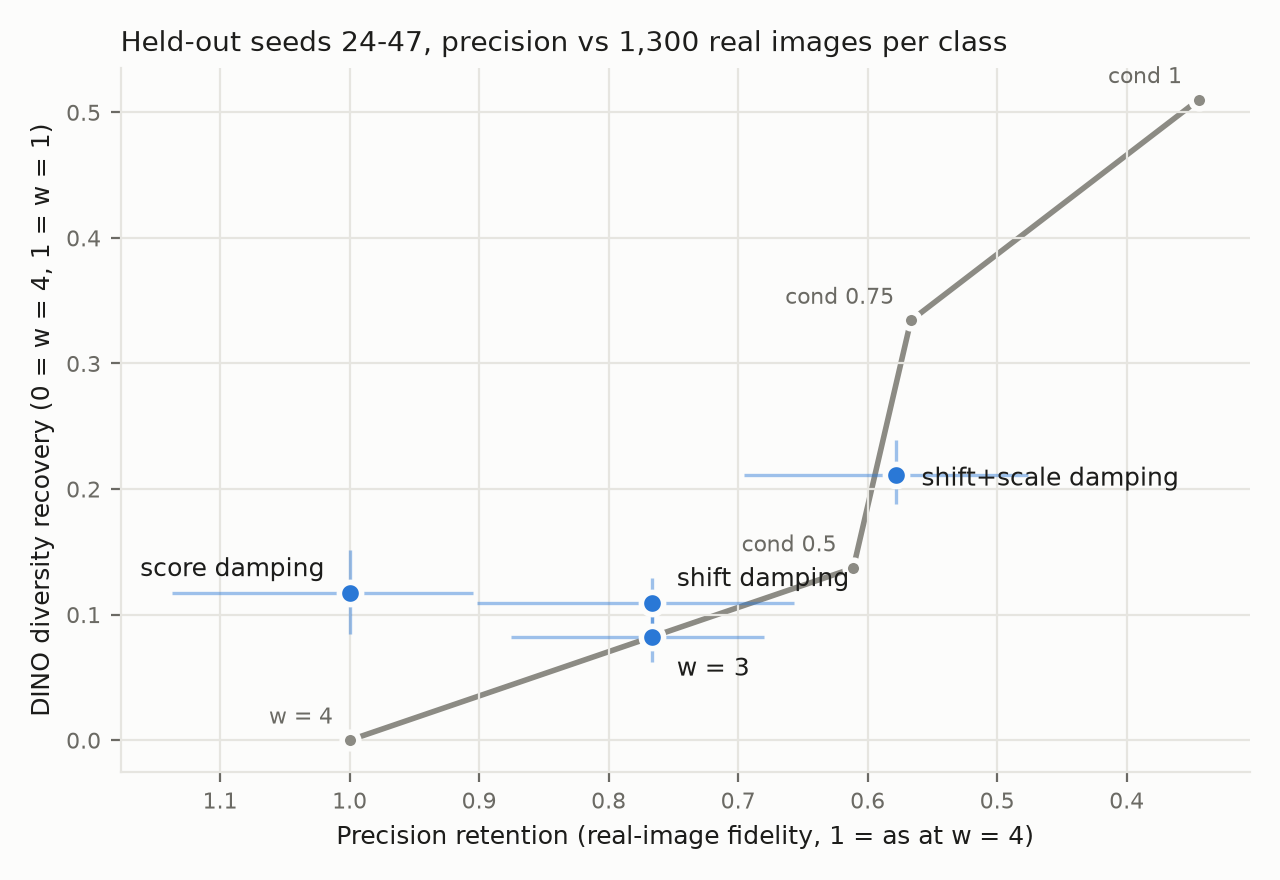
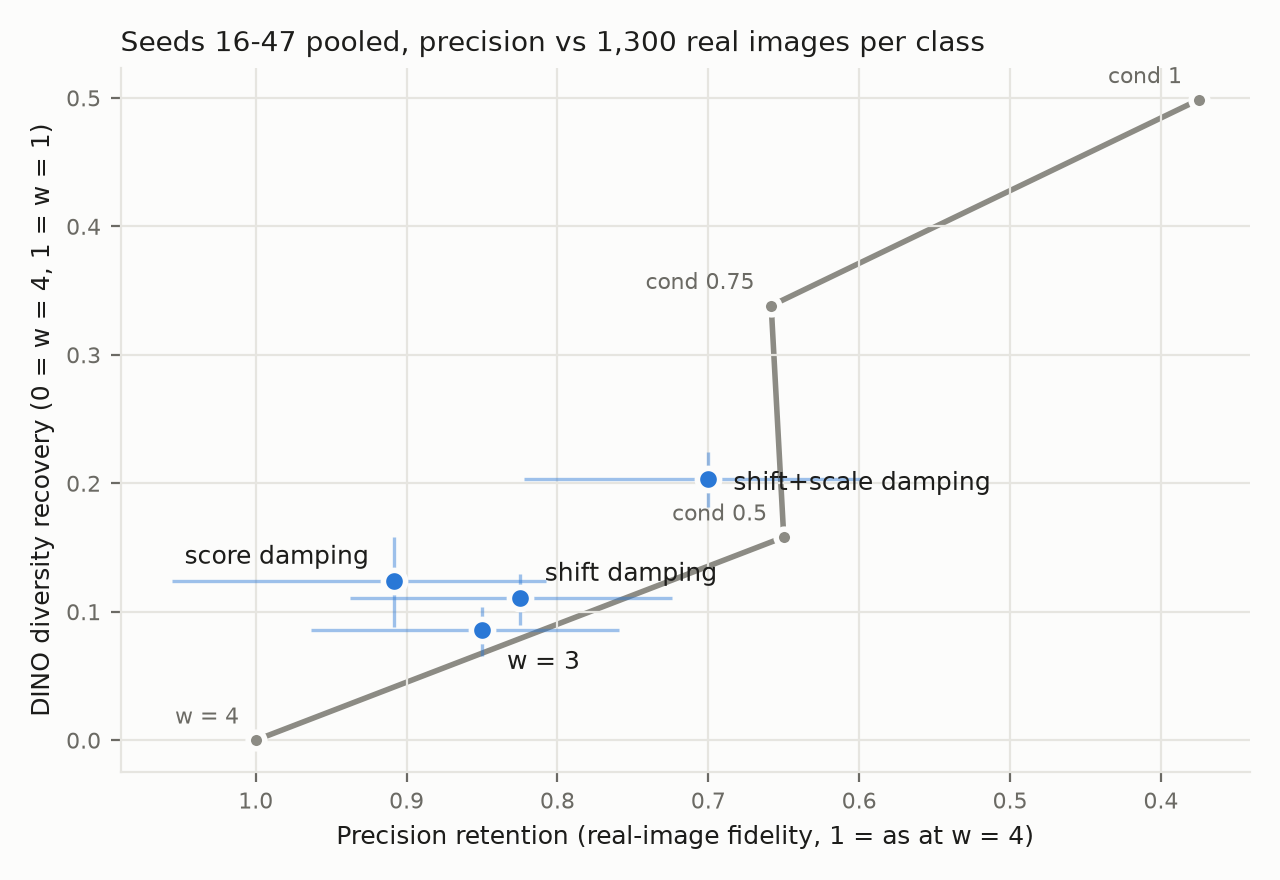
Correct RESULTS.md 12.7: pool seeds 16-47 for the 1,300-image fidelity reference
On seeds 16-31 the training-reference comparison reverses the 24-47 ranking (score damping
precision retention 0.81 vs w=3 0.98), so 12.7 now reports all 32 evaluation seeds pooled:
score damping is still significantly above the condition-damping curve (DINO +0.08, CLIP +0.10)
but at a small, non-significant fidelity cost, not none. The frontier figure is redrawn on the
pooled seeds; frontier_figure.py takes --seeds.

diff --git a/bench/frontier_figure.py b/bench/frontier_figure.py
@@ -1,7 +1,7 @@
 """Figure: semantic diversity against real-image fidelity on held-out seeds, with the condition-damping curve as reference.
 
 x = precision retention, y = DINO recovery (as in paired_vs_cond.py), on seeds 24-47 of SiT-L_2_night, which no method was chosen
-on. Gray line: w4 -> cond 0.5 -> cond 0.75 -> cond 1. Points: the methods, with 95% seed-bootstrap intervals on both axes.
+on by default (--seeds). Gray line: w4 -> cond 0.5 -> cond 0.75 -> cond 1. Points: the methods, with 95% seed-bootstrap intervals on both axes.
 Precision uses the real images in $REAL (default outputs/real_imagenet_val; the report figure uses outputs/real_imagenet_train).
 usage: [REAL=<dir>] frontier_figure.py [--out <png>] [--title <text>]     (from the project root)
 """
@@ -16,7 +16,6 @@ from guidance_analysis import pairwise_cos_distance
 from real_fidelity import knn_radius
 
 RUN = Path("outputs/guidance_delta/SiT-L_2_night")
-SEEDS = range(24, 48)
 CURVE = [("w4", "w = 4"), ("cond_0.5", "cond 0.5"), ("cond_0.75", "cond 0.75"), ("cond_1", "cond 1")]
 METHODS = [("wall_3", "w = 3"), ("score_1", "score damping"), ("mcond_1.3333+mchunks_9", "shift damping"),
            ("mcond_1.3333+mchunks_27", "shift+scale damping")]
@@ -26,8 +25,10 @@ SURFACE, INK, MUTED, GRID, SERIES, CURVE_INK = "#fcfcfb", "#1d1d1b", "#6b6a64", 
 def main():
     p = argparse.ArgumentParser()
     p.add_argument("--out", default="outputs/guidance_delta/figures/frontier_heldout.png")
-    p.add_argument("--title", default="Held-out seeds 24-47: methods vs the condition-damping curve (gray)")
+    p.add_argument("--title", default="Methods vs the condition-damping curve (gray)")
+    p.add_argument("--seeds", type=int, nargs=2, default=[24, 47], help="seed range (inclusive)")
     a = p.parse_args()
+    SEEDS = range(a.seeds[0], a.seeds[1] + 1)
     real = np.load(os.environ.get("REAL", "outputs/real_imagenet_val") + "/dino.npz")
     R = {c: real["dino"][real["labels"] == c].astype(np.float64) for c in LABELS}
     rad = {c: knn_radius(R[c]) for c in LABELS}

diff --git a/RESULTS.md b/RESULTS.md
@@ -15,10 +15,11 @@ by rewriting the network's internal class signal directly. Combining the two wor
 at the same real-image fidelity (now measured as precision against real ImageNet photos). The class push is spread over
 many blocks, modulation parameters and heads, with no small "collapse circuit". Almost every intervention lands on the
 same diversity–fidelity curve as condition damping once tested on fresh seeds; several apparent wins on the seeds used to
-pick them did not replicate. With a stricter fidelity reference (1,300 real images per class, 12.7), **score damping is
-the one method clearly above that curve**: on held-out seeds it keeps all of w = 4's fidelity while recovering nearly all
-lost layout diversity and some semantic diversity (DINO +0.11 over condition damping at equal fidelity). Lower w and the
-circuit-based interventions land on the curve; joint sampling with repulsion between samples adds layout diversity only.
+pick them did not replicate. With a stricter fidelity reference (1,300 real images per class) and all 32 evaluation seeds
+pooled (12.7), **score damping is the one method significantly above that curve**: it recovers nearly all lost layout
+diversity and some semantic diversity (DINO +0.08 over condition damping at equal fidelity) at a small, non-significant
+fidelity cost. Lower w and the circuit-based interventions land on the curve; joint sampling with repulsion between
+samples adds layout diversity only. Precision still varies a lot between seed sets, so these differences are modest.
 
 ---
 
@@ -659,8 +660,8 @@ variety: semantic diversity is still being set after t = 0.3, layout is not). Sk
 
 - **The class push is distributed** at every level examined (blocks, tokens, modulation parameters, heads), which is
   likely why no targeted edit moves far off the condition-damping curve.
-- **Per-sample interventions seem to share one diversity–fidelity frontier,** except score damping, which sits above it
-  (12.7). The apparent gains of lower w and shift damping in 12.4 did not survive the stricter fidelity reference.
+- **Per-sample interventions seem to share one diversity–fidelity frontier,** except score damping, which sits modestly
+  above it (12.7). The apparent gains of lower w and shift damping in 12.4 did not survive the stricter fidelity reference.
 - **16 seeds are not enough to claim small effects.** Precision retention intervals are about ±0.1; differences of
   0.05–0.1 in recovery repeatedly failed to replicate. Every claim above is checked on fresh seeds.
 
@@ -674,23 +675,26 @@ reported alongside the mean pairwise distance. It agrees with it everywhere: sam
 
 **Fidelity against 1,300 real images per class.** Precision so far used the 50 ImageNet validation images per class. The
 training images of the 8 classes (1,300 each, embedded only; `real_fidelity.py --fetch-train`) give a much finer real
-manifold, and precision becomes stricter and more discriminating:
+manifold, and precision becomes stricter. It also varies a lot between seed sets, so the numbers below pool all 32
+evaluation seeds (16–47; seeds 16–23 were used to screen the mcond variants, so those two rows are slightly optimistic):
 
-![Frontier on held-out seeds](outputs/guidance_delta/figures/frontier_heldout.png)
+![Frontier, seeds 16-47](outputs/guidance_delta/figures/frontier_heldout.png)
 
-| Held out 24–47 | Precision ret. (50 val / 1,300 train) | DINO | CLIP | DINO vs curve (train) |
-|---|---|---|---|---|
-| **score damping** | 0.98 / **1.00** | 0.12 | 0.15 | **+0.11** [+0.08, +0.14] |
-| w = 3 | 0.95 / 0.77 | 0.08 | 0.12 | −0.00 |
-| shift damping (both shifts) | 0.95 / 0.77 | 0.11 | 0.17 | +0.03 (n.s.) |
-| shift + scale damping | 0.79 / 0.58 | 0.21 | 0.27 | −0.05 |
-| cond 0.5 / 0.75 / 1 | 0.84 / 0.61, 0.71 / 0.57, 0.53 / 0.34 | 0.14 / 0.33 / 0.51 | | |
+| Seeds 16–47, 1,300-image reference | Precision ret. | DINO | CLIP | DINO vs curve | CLIP vs curve |
+|---|---|---|---|---|---|
+| **score damping** | 0.91 | 0.12 | 0.16 | **+0.08** [+0.03, +0.13] | **+0.10** [+0.04, +0.17] |
+| w = 3 | 0.85 | 0.09 | 0.13 | +0.02 (n.s.) | +0.03 (n.s.) |
+| shift damping (both shifts) | 0.82 | 0.11 | 0.17 | +0.03 (n.s.) | +0.05 (n.s.) |
+| cond 0.5 | 0.65 | 0.16 | 0.23 | | |
 
-- **Score damping keeps all of w = 4's fidelity** even by the strict reference, while recovering nearly all lost layout
-  diversity (+0.96) and some semantic diversity. Against w = 3: precision retention +0.24 [+0.10, +0.37], DINO +0.04.
-- **Lower w and the circuit-based shift damping fall back onto the condition-damping curve.** Their edge in 12.4 came from
-  the coarse 50-image reference. (With the earlier curve, which wrongly stopped at cond 0.5 instead of running to w4, score
-  damping's position above the curve had also been hidden.)
+- **Score damping is the one method significantly above the condition-damping curve,** in DINO, CLIP and Vendi, and it
+  recovers nearly all lost layout diversity (+0.97 vs w4). Its fidelity cost vs w4 is small and not significant
+  (precision retention −0.09 [−0.18, +0.03]). Against w = 3: DINO +0.04 [+0.01, +0.07], precision +0.06 (n.s.).
+- **Lower w and the circuit-based shift damping are on the curve.** Their edge in 12.4 came from the coarse 50-image
+  reference. (Before the curve was corrected to run to w4 rather than stop at cond 0.5, score damping's position above it
+  had also been hidden.)
+- **Seed-set variation is large:** score damping's precision retention is 0.81 on seeds 16–31 but 1.00 on 24–47, and w = 3's
+  0.98 vs 0.77 (`paired_tests/train_ref_pooled_16_47.txt`). Single 16-seed comparisons of fidelity are not reliable.
 
 **Joint sampling** (`bench/joint_sample.py`): all 16 seeds of a group sampled together; while t < 0.3 the samples of each
 class repel each other, particle-guidance style (RBF kernel, median bandwidth, push sized relative to each sample's

diff --git a/outputs/guidance_delta/night_notes.md b/outputs/guidance_delta/night_notes.md
@@ -137,3 +137,9 @@ Goal: more semantic diversity (DINO/CLIP recovery) at the same real-image fideli
   w=3 0.77 (on the curve, -0.00); shift damping 0.77 (+0.03 n.s.); shifts+scales 0.58 (-0.05). With the finer reference the
   earlier edges of w=3 and shift damping disappear; score damping is the clear winner. Figure: figures/frontier_heldout.png.
   (knn_radius rewritten without the (N, N, D) broadcast: same values, needed at N = 1300.)
+- 10:02 CORRECTION to 09:58: on seeds 16-31 the same training-reference comparison reverses (score_1 precision ret. 0.81,
+  w=3 0.98). Pooled 16-47 (paired_tests/train_ref_pooled_16_47.txt): score_1 0.91 / DINO 0.12, vs cond curve DINO +0.08
+  [+0.03,+0.13], CLIP +0.10 [+0.04,+0.17], vs w4 precision -0.09 (n.s.); w=3 0.85 / 0.09 (+0.02 n.s.); shift damping 0.82 /
+  0.11 (+0.03 n.s.). Score damping is still the one method significantly above the curve, but modestly; precision varies a
+  lot between 16-seed sets. Joint sampling re-scored with the training reference (paired_tests/train_ref_joint_16_31.txt):
+  nothing above the curve. RESULTS.md 12.7 and the figure use the pooled numbers.
